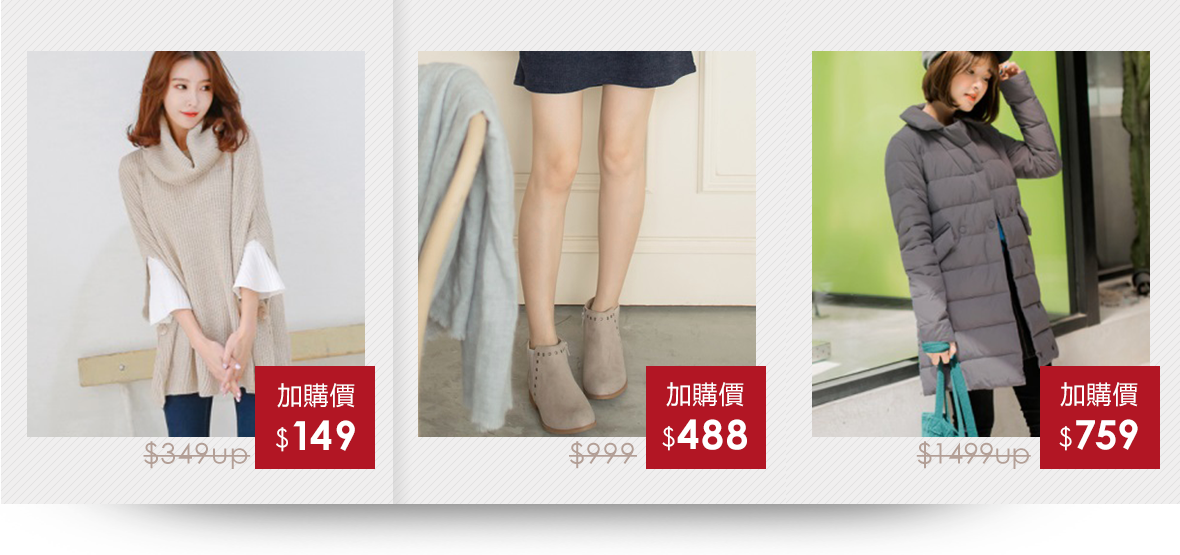
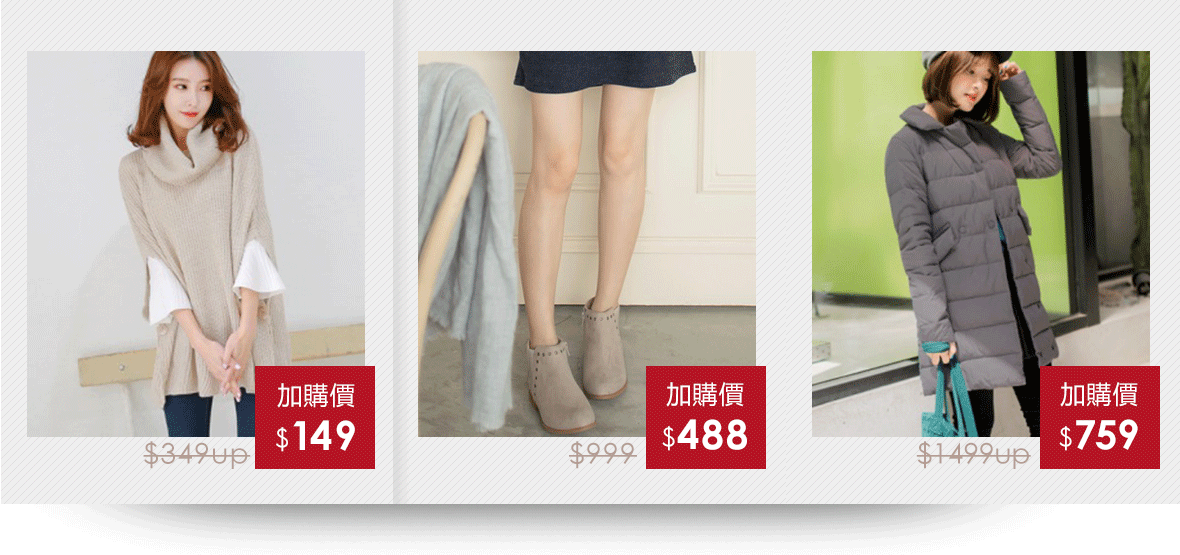
更新圖片 跟ＣＳＳ

diff --git a/site.css b/site.css
@@ -11,6 +11,7 @@
 
     .header-kv {
         position: relative;
+        overflow: hidden;
     }
 
     .header-kv-bg {
@@ -82,7 +83,6 @@
     .header-limit {
         margin: 0 auto;
         padding: 0;
-        background: transparent url('images/limit-pattern.jpg') repeat 0 0;
     }
 
     .header-limit-bg {
@@ -93,13 +93,15 @@
         position: relative;
         top: -80px;
         padding: 0;
-        background: transparent url('images/limit-pattern.jpg') repeat 0 0;
     }
 
     .wrap {
         max-width: 1180px;
         margin: 0 auto;
         position: relative;
+        margin: 0 auto;
+        padding: 0;
+        box-sizing: border-box;
     }
 
     .wrap-img {
